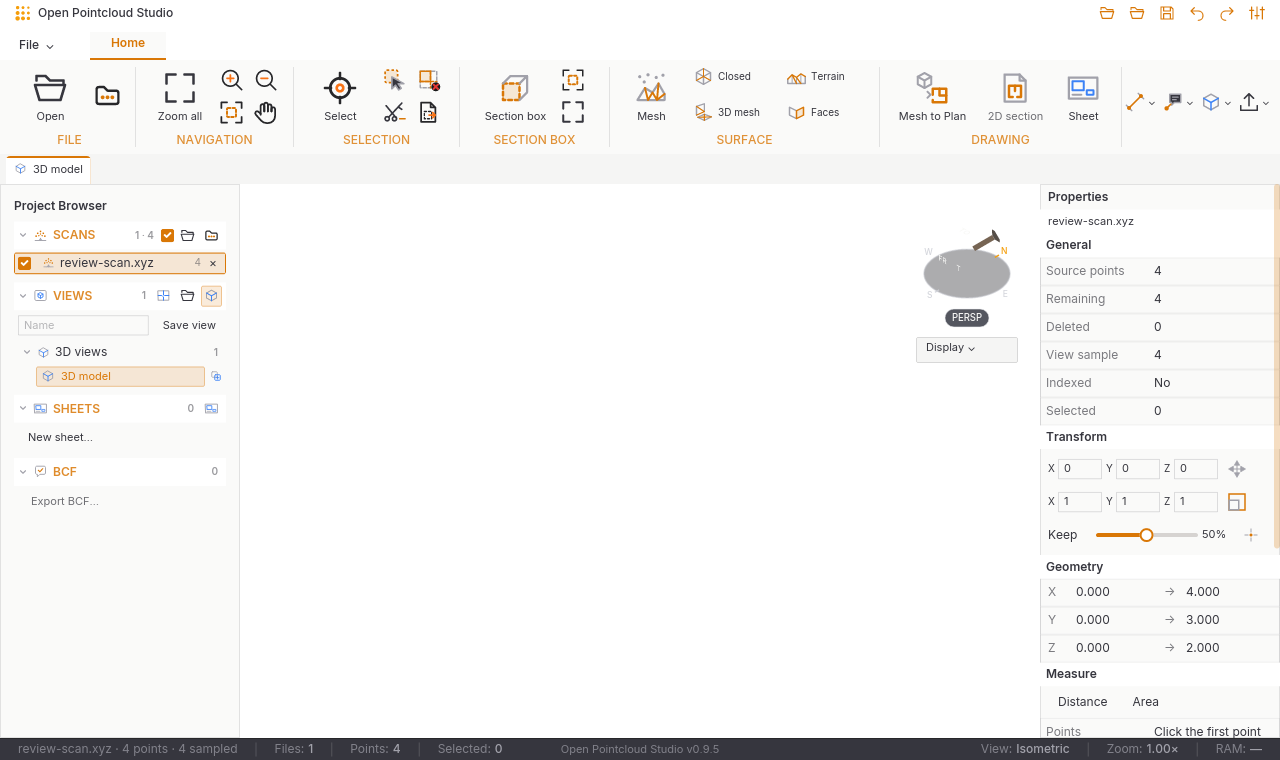
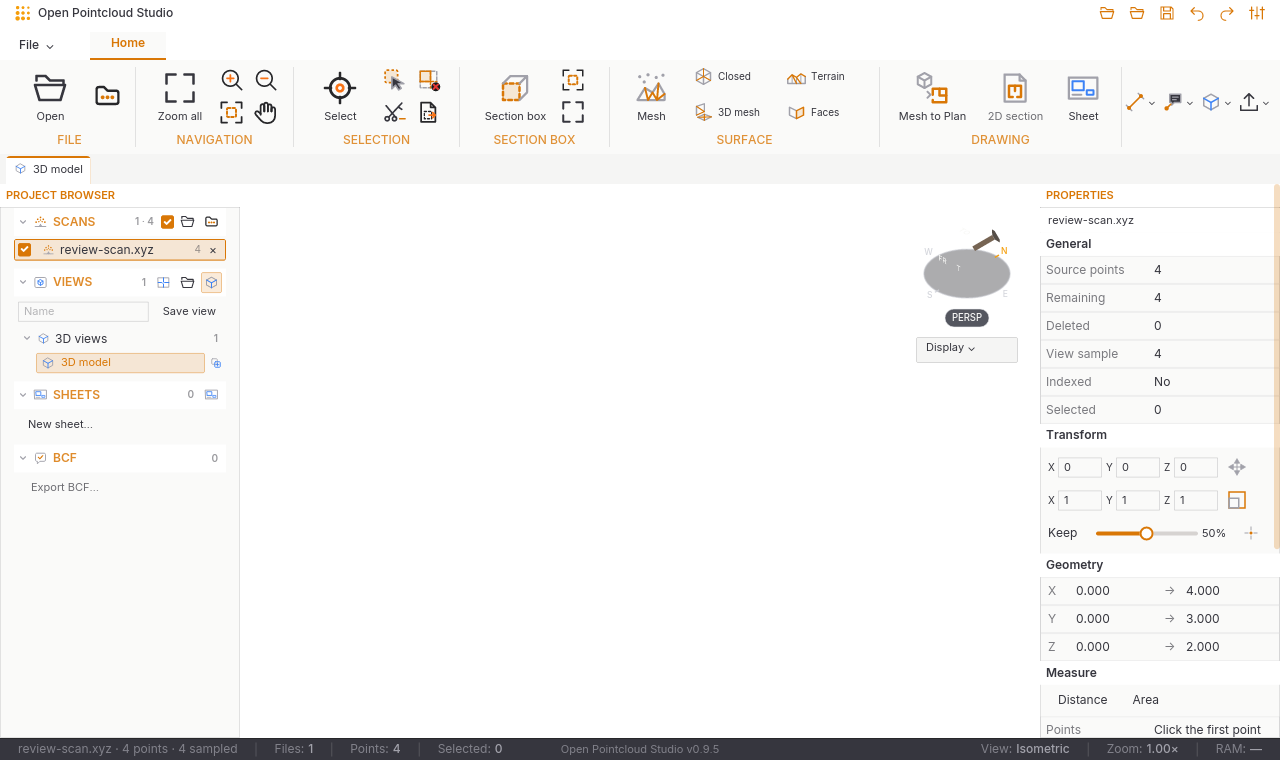
Use shared 24px panel toolbars in Pointcloud

diff --git a/native/ui/src/widgets.rs b/native/ui/src/widgets.rs
@@ -88,19 +88,27 @@ pub fn surface(theme: Theme) -> container::Style {
     let t = theme.tokens();
     container::Style::default().background(t.bg).color(t.text)
 }
+pub fn panel_header<'a, M: 'a>(title: impl Into<String>, theme: Theme) -> Element<'a, M> {
+    let t = theme.tokens();
+    let title = container(text(title.into().to_uppercase()).font(fonts::STRONG).size(11))
+        .padding([0, 6])
+        .height(metrics::PANEL_TOOLBAR - 1)
+        .width(Fill)
+        .align_y(iced::Alignment::Center)
+        .style(move |_| container::Style::default().background(t.bg_lighter).color(t.accent));
+    let divider = container(iced::widget::Space::new(Fill, 1))
+        .height(1)
+        .width(Fill)
+        .style(move |_| container::Style::default().background(t.border));
+    column![title, divider].height(metrics::PANEL_TOOLBAR).width(Fill).into()
+}
 pub fn panel<'a, M: 'a>(
     title: impl Into<String>,
     content: Element<'a, M>,
     theme: Theme,
 ) -> Element<'a, M> {
-    let t = theme.tokens();
     container(column![
-        container(text(title.into()).font(fonts::STRONG).size(12))
-            .padding(10)
-            .width(Fill)
-            .style(move |_| container::Style::default()
-                .background(t.bg_lighter)
-                .color(t.text)),
+        panel_header(title, theme),
         iced::widget::scrollable(container(content).padding(12).width(Fill)).height(Fill),
     ])
     .width(Fill)

diff --git a/native/desktop/src/shell_tests.rs b/native/desktop/src/shell_tests.rs
@@ -80,6 +80,7 @@ fn status_bar_builds_in_the_model_and_in_the_file_view() {
 fn shared_shell_bands_render_at_tauri_template_heights() {
     use openaec_ui::model::metrics;
     assert_eq!((metrics::TITLE, metrics::TABS, metrics::RIBBON, metrics::DOCUMENTS, metrics::STATUS), (32, 28, 94, 30, 22));
+    assert_eq!(metrics::PANEL_TOOLBAR, 24);
     let mut studio = Studio::default();
     for theme in UiTheme::ALL {
         studio.ui_theme = theme;
@@ -94,6 +95,9 @@ fn shared_shell_bands_render_at_tauri_template_heights() {
         ] {
             assert!(picture.is(2, y, expected), "{} at y={y}", theme.key());
         }
+        let panel_top = (metrics::TITLE + metrics::TABS + metrics::RIBBON + metrics::DOCUMENTS) as u32;
+        assert!(picture.is(100, panel_top + 22, colors.bg_lighter), "{} panel title", theme.key());
+        assert_ne!(picture.rgb(100, panel_top + 23), picture.rgb(100, panel_top + 22), "{} panel divider", theme.key());
     }
 }
 

diff --git a/native/desktop/src/project_browser.rs b/native/desktop/src/project_browser.rs
@@ -715,8 +715,7 @@ impl Studio {
 
     /// The panel at the left of the window.
     pub(crate) fn project_panel(&self) -> Element<'_, Message> {
-        let mut panel =
-            column![text(tr("Project Browser")).size(12).font(fonts::SEMIBOLD)].spacing(8);
+        let mut panel = column![].spacing(8);
         panel = panel.push(self.scans_group());
         if let Some(classes) = self.classes_group() {
             panel = panel.push(classes);
@@ -734,7 +733,10 @@ impl Studio {
         } else {
             WIDTH
         };
-        container(ui_style::scrollable(panel.padding(14)).height(Fill))
+        container(column![
+            openaec_ui::widgets::panel_header(tr("Project Browser"), self.ui_theme.shared()),
+            ui_style::scrollable(panel.padding([0, 14])).height(Fill),
+        ])
             .width(width)
             .height(Fill)
             .style(crate::sidebar_style)

diff --git a/native/desktop/src/main.rs b/native/desktop/src/main.rs
@@ -11094,9 +11094,7 @@ impl Studio {
             display_name(&entry.cloud.path)
         });
         let mut properties = column![
-            container(text(i18n::tr("Properties")).size(12).font(fonts::SEMIBOLD))
-                .padding([5, 8])
-                .width(Fill),
+            openaec_ui::widgets::panel_header(i18n::tr("Properties"), self.ui_theme.shared()),
             container(text(filename).size(11))
                 .padding([5, 8])
                 .width(Fill)

diff --git a/native/ui/src/model.rs b/native/ui/src/model.rs
@@ -10,6 +10,7 @@ pub mod metrics {
     pub const DOCUMENTS: u16 = 30;
     pub const STATUS: u16 = 22;
     pub const PANEL_DEFAULT: u16 = 240;
+    pub const PANEL_TOOLBAR: u16 = 24;
     pub const WINDOW_DEFAULT_WIDTH: u16 = 1280;
     pub const CONTROL: u16 = 30;
     pub const ICON: u16 = 20;
